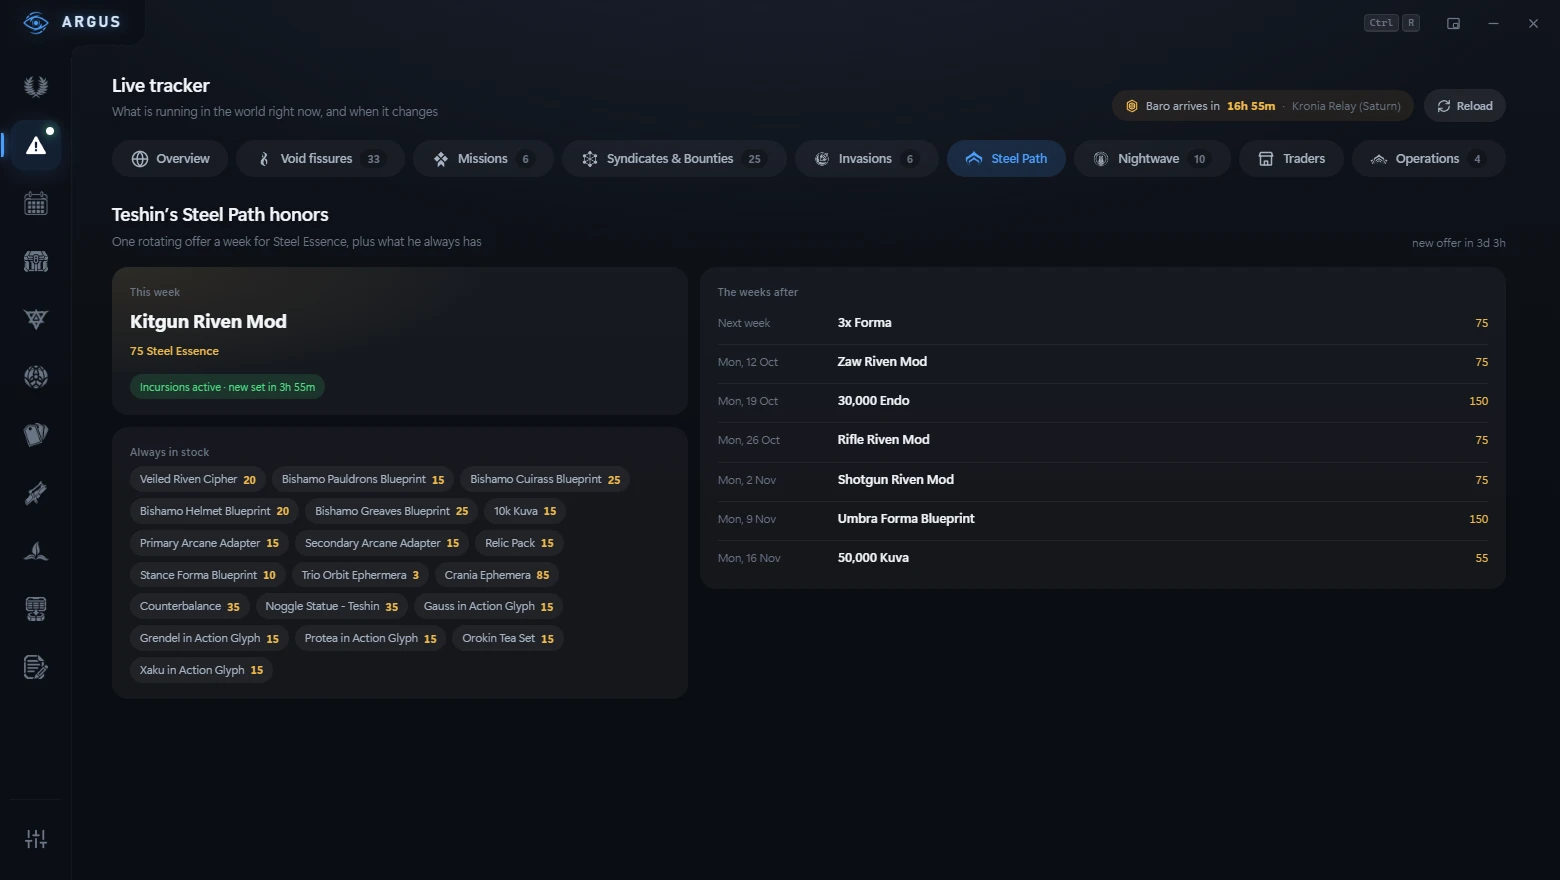
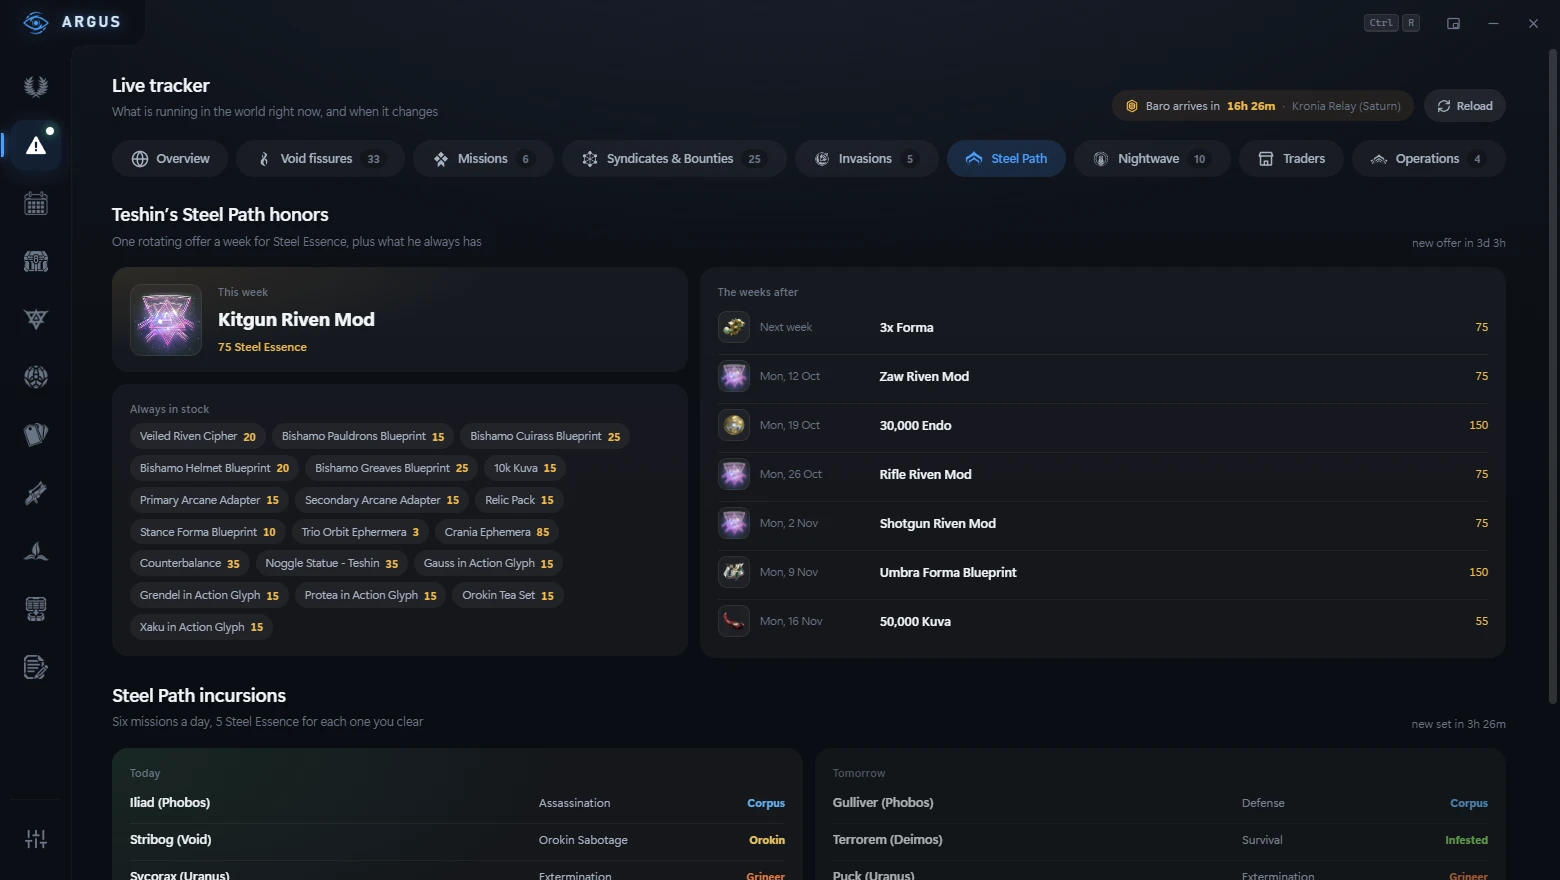
README: Steel Path mit Incursions und Bildern
Neues Bild in derselben Art wie die uebrigen (1560x880, WebP, oben mit der
vollen Reiterleiste), und die Incursions in der Funktionsliste und in der
Bildzeile.

diff --git a/README.md b/README.md
@@ -120,9 +120,9 @@ Every mechanism, permission and endpoint is explained in detail:
   Earth, the Plains, Orb Vallis, Cambion Drift, the Zariman and Duviri's mood — and what
   is left for you today. Void fissures split into normal, Steel Path and Void Storms; the
   sortie, the Archon hunt and the arbitration schedule; every bounty board with what each
-  stage pays out; invasions, Nightwave, Teshin's offers weeks ahead, and the traders —
-  Baro, Varzia's Prime Resurgence, Darvo, Ergo Glast and Eleanor — with what you already
-  own marked, down to the Incarnon in this week's Circuit.
+  stage pays out; invasions, Nightwave, Teshin's offers weeks ahead, today's Steel Path
+  incursions, and the traders — Baro, Varzia's Prime Resurgence, Darvo, Ergo Glast and
+  Eleanor — with what you already own marked, down to the Incarnon in this week's Circuit.
 - **Weekly rotation.** Everything that resets once a week — Archon Hunt, The Circuit,
   Deep and Temporal Archimedea, Netracells, Kahl's Garrison, the Descendia and the vendor
   resets — ticked off by itself wherever your own save records it.
@@ -249,7 +249,7 @@ Each tab of the window, with a screenshot of every view in it. Click one to open
 
 ![Live tracker: invasions](docs/img/ws-invasions.webp)
 
-**Steel Path** — Teshin's offer this week, the weeks after, and what he always has
+**Steel Path** — Teshin's offer this week and the weeks after, what he always has, and the six incursions of today and tomorrow
 
 ![Live tracker: Steel Path](docs/img/ws-steelpath.webp)
 
